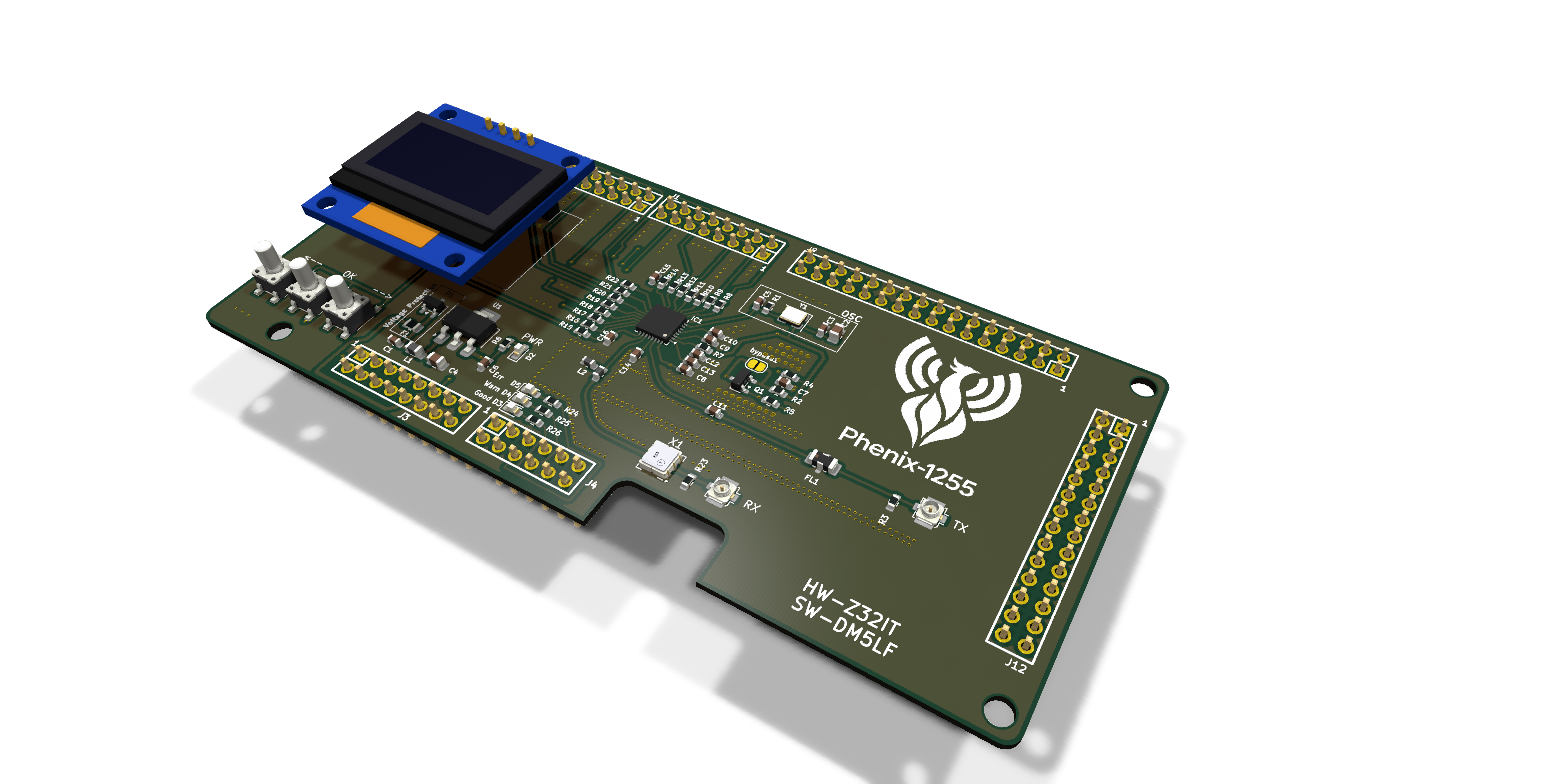
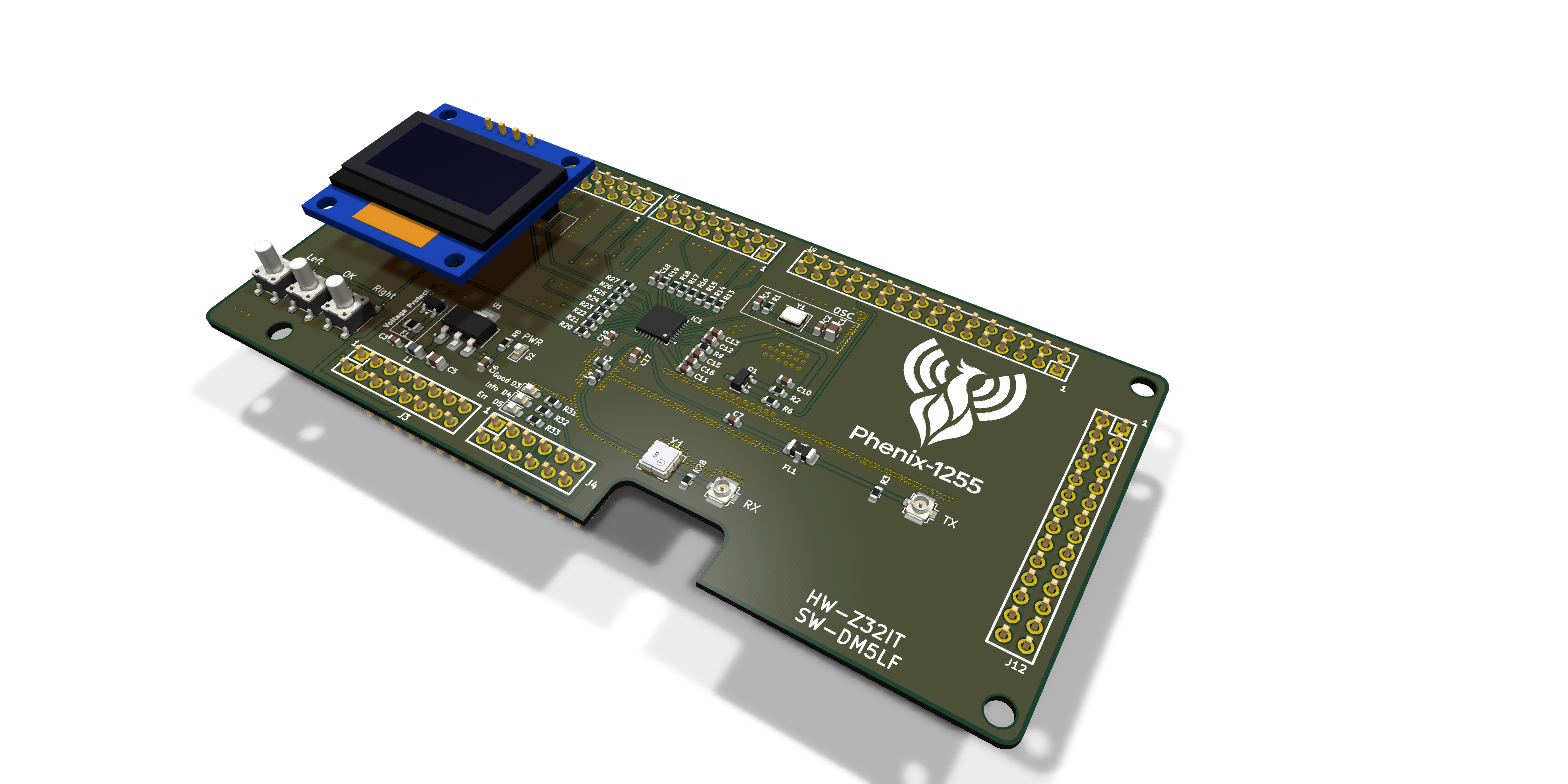
Documentation updated

diff --git a/documentation/hardware.md b/documentation/hardware.md
@@ -1,8 +1,8 @@
 # Hardware
 
-Description of the Phenix-1255 shield, revision **V2** and the **V2 Plus** variant. The full
-schematics are in [`FRDM-SX1255-V2.pdf`](../FRDM-SX1255/FRDM-SX1255-V2.pdf) and
-[`FRDM-SX1255+ V2.pdf`](../FRDM-SX1255+/FRDM-SX1255+%20V2.pdf); the firmware view of the same
+Description of the Phenix-1255 shield, revision **V2** and the **V2 Plus** variant (layout of
+25 Nov 2026). The full schematics are in [`FRDM-SX1255-V2.pdf`](../FRDM-SX1255/FRDM-SX1255-V2.pdf)
+and [`FRDM-SX1255+ V2.pdf`](../FRDM-SX1255+/FRDM-SX1255+%20V2.pdf); the firmware view of the same
 signals is in
 [`_doc/hardware.md`](https://github.com/w4tchd0g/phenix-1255-sw/blob/develop/_doc/hardware.md)
 of the software repository.
@@ -16,13 +16,13 @@ of the software repository.
 | Block | Parts | Description |
 |---|---|---|
 | Transceiver | IC1 (SX1255) | I/Q interface (I2S) and SPI to the MCX N947 |
-| Reference clock | Y1 (38.4 MHz TCXO) | Clipped sine, 0.5–1 ppm, footprint fits 3225 and 2520 packages |
-| RX path | J2, X1, L2, L3 | U.FL input → SAW band-pass (Tai-Saw TA0655A) → matching (L3 series, L2 shunt) → `RFI` |
-| TX path | C11, FL1, J1 | `RFO_P` → 100 pF → low-pass (Mini-Circuits LFCN-490+) → U.FL output; `RFO_N` is AC-coupled to GND (C14) |
-| TX driver amplifier (V2 Plus only) | U2, R29–R34, L4, C18–C20 | Qorvo TQP3M9036 between `RFO_P` and the low-pass filter, see [below](#tx-driver-amplifier-v2-plus) |
-| PA supply switch | Q1, R2, R4, R5, *bypass* | P-MOSFET switches the SX1255 PA supply (`VBAT3`) |
-| Power supply | F1, D1, L1, U1 | 5 V → PTC fuse → TVS → ferrite bead → 3.3 V LDO |
-| User interface | SW1–SW3, D2–D5, J5 | Push buttons, status LEDs, OLED socket |
+| Reference clock | Y1 (38.4 MHz TCXO), C4, R1 | Clipped sine, 0.5–1 ppm, footprint fits 3225 and 2520 packages |
+| RX path | JJ2, X1, L4, L3 | U.FL input → SAW band-pass (Tai-Saw TA0655A) → matching (L4 39 nH series, L3 82 nH shunt) → `RFI` |
+| TX path | C7, FL1, JJ1 | `RFO_P` → 100 pF → low-pass (Mini-Circuits LFCN-490+) → U.FL output; `RFO_N` is AC-coupled to GND (C17) |
+| TX driver amplifier (V2 Plus only) | U2, R4, R5, R7, R10–R12, L2, C8, C9, C14 | Qorvo TQP3M9036 between `RFO_P` and the low-pass filter, see [below](#tx-driver-amplifier-v2-plus) |
+| PA supply switch | Q1, R2, R6, C10 | P-MOSFET (DMP1045U) switches the SX1255 PA supply (`VBAT3`) |
+| Power supply | F1, D1, L1, U1, C1–C3, C5, C6 | 5 V → PTC fuse → TVS → ferrite bead → 3.3 V LDO |
+| User interface | SW1–SW3, D2–D5, J7 | Push buttons, status LEDs, OLED socket |
 
 ## Shield headers
 
@@ -30,8 +30,7 @@ The shield plugs onto the FRDM-MCXN947 with six headers (J1, J2, J3, J4, J9, J12
 pin numbers below are the shield's pin numbers (see the silkscreen). The MCU pins are taken from the
 firmware's devicetree overlay. Pins not listed are not connected or GND.
 
-> **Note:** On V2 the U.FL connectors are also called J1 (*TX*) and J2 (*RX*). In this document
-> "J1"/"J2" in the header tables mean the FRDM headers.
+The U.FL connectors are called JJ1 (*TX*) and JJ2 (*RX*), so "J1"/"J2" always mean the FRDM headers.
 
 ### J1 – SX1255 I/Q interface and control
 
@@ -57,46 +56,60 @@ firmware's devicetree overlay. Pins not listed are not connected or GND.
 | 15 | `SCL_oled` | P1_1 | LPI2C3 SCL |
 | 17 | `SDA_oled` | P1_0 | LPI2C3 SDA |
 
-All SX1255 signals have 33 Ω series resistors (R8–R22) close to the SX1255.
+The SX1255 signals have series resistors close to the SX1255:
 
-### J3 – Power, PA control and buttons
+| Value | Signals | Parts |
+|---|---|---|
+| 33 Ω | `RST`, `CK_OUT`, `I_OUT`, `MISO`, `DIO0`–`DIO3` | R13, R14, R18, R26, R23, R22, R21, R20 |
+| 330 Ω | `I_IN`, `NSS`, `MOSI`, `SCK` | R17, R24, R25, R27 |
+| 330 Ω to GND | SX1255 `CK_IN`, `Q_IN` (not used) | R15, R16 |
+
+### J3 – Power and buttons
 
 | Pin | Signal | MCU pin | Function |
 |---|---|---|---|
-| 1 | `BTN_LEFT` | P2_0 | Push button SW3 *←* |
-| 3 | `BTN_RIGHT` | P1_22 | Push button SW1 *→* |
+| 1 | `BTN_LEFT` | P2_0 | Push button SW3 *Left* |
+| 3 | `BTN_OK` | P1_22 | Push button SW2 *OK* |
 | 4 | `+3.3V` | | 3.3 V of the FRDM board for the OLED socket and the buttons |
 | 10 | `+5V0` | | Main supply of the shield |
-| 11 | `~PA_EN` | P2_4 | PA supply enable, active low |
-| 13 | `USB/LAN` | P2_7 | Not connected on V2 (the slide switch of V1.3 was removed) |
+| 12, 14 | GND | | |
 
 ### J4 – Button and status LEDs
 
 | Pin | Signal | Colour | MCU pin |
 |---|---|---|---|
-| 1 | `BTN_OK` – push button SW2 *OK* | | P4_12 / P0_21 |
-| 6 | D5 *Err* | red | P0_14 |
-| 8 | D4 *Warn* | yellow | P0_22 |
-| 10 | D3 *Good* | green | P0_15 |
+| 1 | `BTN_RIGHT` – push button SW1 *Right* | | P4_12 / P0_21 |
+| 6 | D3 *Good* | green | P0_14 |
+| 8 | D4 *Info* | yellow | P0_22 |
+| 10 | D5 *Err* | red | P0_15 |
 
-The LEDs are driven active high through 1.5 kΩ resistors (R24–R26). D2 *PWR* is on the shield's
-3.3 V rail.
+The LEDs are driven active high through 1.5 kΩ resistors (R31 *Good*, R32 *Info*, R33 *Err*). D2
+*PWR* is on the shield's 3.3 V rail (R8, 3.3 kΩ).
 
 Where two MCU pins are listed, the FRDM board routes the header pin to one of them via a jumper or
-resistor option. Check the FRDM-MCXN947 schematic for the default (e.g. J4 pin 10 can also be
-routed to P2_0, which is already used by `BTN_LEFT`).
+resistor option. Check the FRDM-MCXN947 schematic for the default (the firmware uses P4_12 for
+`BTN_RIGHT`; J4 pin 10 can also be routed to P2_0, which is already used by `BTN_LEFT`).
 
-### J9, J12
+### J9 – PA enable
 
-Only GND is used.
+| Pin | Signal | MCU pin | Function |
+|---|---|---|---|
+| 23 | `~PA_EN` | P1_23 | PA supply enable, active low (V2 Plus: also enables the TX driver amplifier) |
+
+The firmware reads a hardware ID from P1_19 (J9-5), P3_5 (J9-11) and P3_4 (J9-12) with internal
+pull-downs. These pins are not connected on this board, so the ID reads 0.
+
+### J12
+
+Only GND (pin 2) is used.
 
 ## Other connectors
 
 | Connector | Type | Use |
 |---|---|---|
-| J1 *TX* | U.FL | Transmitter output, 1 MΩ to GND (R3) |
-| J2 *RX* | U.FL | Receiver input, 1 MΩ to GND (R23) |
-| J5 *I2C OLED* | 1×4 socket, 2.54 mm | 1 GND · 2 +3.3V · 3 SCL · 4 SDA (33 Ω series resistors R27/R28) |
+| JJ1 *TX* | U.FL | Transmitter output, 1 MΩ to GND (R3) |
+| JJ2 *RX* | U.FL | Receiver input, 1 MΩ to GND (R28) |
+| J7 *I2C OLED* | 1×4 socket, 2.54 mm | 1 GND · 2 +3.3V · 3 SCL · 4 SDA (33 Ω series resistors R29/R30) |
 
 ## Board functions
 
@@ -105,25 +118,27 @@ Only GND is used.
 SW1–SW3 switch to the FRDM 3.3 V rail and have no external pull-downs. Enable the **internal
 pull-downs** on `BTN_LEFT`, `BTN_OK` and `BTN_RIGHT`; a pressed button reads as `1`.
 
-### PA supply and *bypass* jumper
+### PA supply
 
-The SX1255 PA supply (`VBAT3`) is fed from 3.3 V through R2 (1 Ω) and the P-MOSFET Q1 (BSS84).
-R4 pulls the gate up, so the PA is **off** until the firmware pulls `~PA_EN` low (through R5).
+The SX1255 PA supply (`VBAT3`) is fed from 3.3 V through R2 (1 Ω) and the P-MOSFET Q1
+(Diodes DMP1045U), with C10 (1 µF) at the source. The gate is driven from `~PA_EN` through R6
+(330 Ω); the PA is on while `~PA_EN` is low.
 
-The open solder jumper ***bypass*** bridges Q1. Closing it powers the PA permanently, independent
-of the firmware.
+The gate has **no pull-up resistor** on the shield. While P1_23 is not driven (reset, before the
+firmware configures it) the PA state is undefined, so the firmware should set `~PA_EN` high as
+early as possible. The *bypass* solder jumper of earlier V2 layouts has been removed.
 
 ### TX driver amplifier (V2 Plus)
 
 ```
-RFO_P ─ π-attenuator (R29 150 Ω / R30 36 Ω / R31 150 Ω) ─ C20 ─ U2 TQP3M9036 ─ C11 ─ FL1 LFCN-490+ ─ J1 TX
+RFO_P ─ π-attenuator (R12 150 Ω / R11 36 Ω / R10 150 Ω) ─ C14 ─ U2 TQP3M9036 ─ C7 ─ FL1 LFCN-490+ ─ JJ1 TX
                                                                   │
-                                                     +5V0 ─ L4 68 nH (bias feed)
+                                                     +5V0 ─ L2 68 nH (bias feed)
 ```
 
-- U2 is supplied from `+5V0` through L4 into its RF output (C18/C19 decoupling).
-- U2 pin 6 is driven from `~PA_EN` through R34/R33 with R32 to GND, so the amplifier follows the PA
-  enable signal.
+- U2 is supplied from `+5V0` through L2 into its RF output (C8/C9 decoupling).
+- U2 pin 6 is driven from `~PA_EN` through R4 (1 Ω) and R5 (33 kΩ) with R7 (10 kΩ) to GND, so the
+  amplifier follows the PA enable signal.
 
 ### Power supply
 
@@ -132,8 +147,28 @@ J3-10 (+5V0) ─ F1 500 mA PTC ─┬─ L1 ferrite bead ─ U1 MCP1703 (3.3 V) 
                               └─ D1 TVS (SP0502BAHT)
 ```
 
-The FRDM-MCXN947 supplies the 5 V. With a 48 V → 5 V USB-C PoE splitter the setup can be powered
-over Ethernet.
+C3 (1 µF) sits behind the fuse, C5 (22 µF) at the LDO input and C1 (22 µF), C2 (100 nF) and C6
+(1 µF) at its output. The FRDM-MCXN947 supplies the 5 V. With a 48 V → 5 V USB-C PoE splitter the
+setup can be powered over Ethernet.
+
+## Changes in the layout of 25 Nov 2026
+
+Compared with the V2 layout of 4 Nov 2026:
+
+| Change | Before | Now |
+|---|---|---|
+| Reference designators | | Re-annotated. U.FL connectors are now JJ1/JJ2, the OLED socket is J7 |
+| `~PA_EN` | J3-11 | J9-23 (P1_23) |
+| `BTN_OK` / `BTN_RIGHT` | J4-1 / J3-3 | J3-3 / J4-1 |
+| Status LEDs on J4-6 / -8 / -10 | *Err* / *Warn* / *Good* | *Good* / *Info* / *Err* |
+| LED D4 | *Warn* | *Info* |
+| `USB/LAN` (J3-13) | unused net on the header | removed |
+| PA switch Q1 | BSS84, gate pull-up R4 10 kΩ, *bypass* jumper | DMP1045U, no pull-up, no jumper |
+| Push buttons | C&K PTS647SK70SMTR2N LFS | E-Switch TL3305CF260QG (same footprint) |
+| 22 µF capacitors | CL31B226MPHNNNE | CL21A226KOQNNNE |
+
+The firmware on the `develop` branch of
+[phenix-1255-sw](https://github.com/w4tchd0g/phenix-1255-sw) already uses the new pin assignment.
 
 ## Board views
 

diff --git a/README.md b/README.md
@@ -58,19 +58,19 @@ power supply, user interface and RX path.
 | Variant | Folder | Difference |
 |---|---|---|
 | **V2** | [`FRDM-SX1255/`](FRDM-SX1255) | SX1255 TX output → low-pass filter → U.FL |
-| **V2 Plus** | [`FRDM-SX1255+/`](FRDM-SX1255+) | Additional **TX driver amplifier** (Qorvo TQP3M9036, U2) between the SX1255 and the low-pass filter, with a resistive π-attenuator (R29–R31) at its input. The amplifier runs from 5 V and is switched together with the PA via `~PA_EN`. |
+| **V2 Plus** | [`FRDM-SX1255+/`](FRDM-SX1255+) | Additional **TX driver amplifier** (Qorvo TQP3M9036, U2) between the SX1255 and the low-pass filter, with a resistive π-attenuator (R10–R12) at its input. The amplifier runs from 5 V and is switched together with the PA via `~PA_EN`. |
 
 ## Features
 
-- **Separate RX and TX paths** with U.FL connectors (*TX* J1, *RX* J2)
+- **Separate RX and TX paths** with U.FL connectors (*TX* JJ1, *RX* JJ2)
   - RX: SAW band-pass filter (Tai-Saw TA0655A, 430 MHz centre frequency, 2 MHz bandwidth) → LC matching → `RFI`
   - TX: `RFO_P` → low-pass filter (Mini-Circuits LFCN-490+) → U.FL; V2 Plus adds the TQP3M9036 driver amplifier
-- **Switchable PA supply** – P-MOSFET (BSS84) controlled by `~PA_EN`, with a *bypass* solder jumper
+- **Switchable PA supply** – P-MOSFET (DMP1045U) controlled by `~PA_EN`
 - **Power supply** – resettable 500 mA fuse, TVS diode array (SP0502BAHT), ferrite bead and 3.3 V LDO (MCP1703)
 - **User interface**
-  - Three push buttons: *←*, *OK*, *→*
+  - Three push buttons: *Left*, *OK*, *Right*
   - Socket for an I²C OLED display
-  - Status LEDs: *PWR*, *Err*, *Warn*, *Good*
+  - Status LEDs: *PWR*, *Good*, *Info*, *Err*
 
 ## Preview
 
@@ -91,9 +91,9 @@ power supply, user interface and RX path.
 | <img src="documentation/images/pcb-v2-plus-top.png" alt="V2 Plus – top side" width="420"> | <img src="documentation/images/pcb-v2-plus-bottom.png" alt="V2 Plus – bottom side" width="420"> |
 
 The images are rendered from the `.kicad_pcb` files with the KiCad 3D renderer and show the fully
-assembled board with a 0.96″ OLED module plugged into its socket, including the parts that are
-marked *do not populate* in the layout (FRDM headers, OLED socket, SAW filter). After changing the
-layout, run [`./scripts/render.sh`](scripts/render.sh) to update the images.
+assembled board with a 0.96″ OLED module plugged into its socket (J7), including the parts that are
+marked *do not populate* in the layout (FRDM headers, OLED socket and, on V2 Plus, the SAW filter).
+After changing the layout, run [`./scripts/render.sh`](scripts/render.sh) to update the images.
 
 ### 3D models
 
@@ -104,13 +104,13 @@ enclosure) and exported as STEP from KiCad. Most models come from the KiCad stan
 | Part | Footprint | 3D model | Source |
 |---|---|---|---|
 | FRDM headers J1, J2, J3, J4, J9, J12 | Samtec SSQ (FRDM template) | `PinHeader_2xNN_P2.54mm_Vertical` | KiCad library, mounted below the board |
-| U.FL connectors *TX* / *RX* | `U.FL_Molex_MCRF_73412-0110_Vertical` | `U.FL_Hirose_U.FL-R-SMT-1_Vertical`, rotated 90° | KiCad library (no model for the Molex footprint) |
-| Push buttons SW1–SW3 | `PTS647SK38SMTR2LFS` | `SW_SPST_PTS647Sx70` (7.0 mm actuator, as in the BOM) | KiCad library |
+| U.FL connectors JJ1 *TX* / JJ2 *RX* | `U.FL_Molex_MCRF_73412-0110_Vertical` | `U.FL_Hirose_U.FL-R-SMT-1_Vertical`, rotated 90° | KiCad library (no model for the Molex footprint) |
+| Push buttons SW1–SW3 | `PTS647SK38SMTR2LFS` | `SW_SPST_PTS647Sx70` (stand-in for the E-Switch TL3305 in the BOM) | KiCad library |
 | SAW filter X1 (TA0655A) | `Filter_SAW-6_3.8x3.8mm` | [`3dmodels/TA0655A.stp`](FRDM-SX1255/3dmodels/TA0655A.stp) | Project file |
 | TX amplifier U2 (V2 Plus) | `SON50P200X200X95-9N` | `VDFN-8-1EP_2x2mm_P0.5mm_EP0.9x1.7mm` | KiCad library |
-| OLED display (plugged into J5) | `PinSocket_1x04_P2.54mm_Vertical` | [`3dmodels/OLED_0.96in_128x64_I2C.stp`](FRDM-SX1255/3dmodels/OLED_0.96in_128x64_I2C.stp) – 0.96″ 128×64 SSD1306 I²C module, as a second model on the socket | Project file |
+| OLED display (plugged into J7) | `PinSocket_1x04_P2.54mm_Vertical` | [`3dmodels/OLED_0.96in_128x64_I2C.stp`](FRDM-SX1255/3dmodels/OLED_0.96in_128x64_I2C.stp) – 0.96″ 128×64 SSD1306 I²C module, as a second model on the socket | Project file |
 
-Mounting holes and the *bypass* solder jumper need no model.
+Mounting holes need no model.
 
 The shield is designed for the NXP FRDM-MCXN947 development board, see the
 [NXP FRDM-MCXN947 product page](https://www.nxp.com/design/design-center/development-boards-and-designs/FRDM-MCXN947)
@@ -120,7 +120,7 @@ for photos, documentation and the board pinout.
 
 | Document | Content |
 |---|---|
-| [Hardware](documentation/hardware.md) | Block overview, header pin assignment, PA supply and *bypass* jumper, power supply, V2 Plus amplifier |
+| [Hardware](documentation/hardware.md) | Block overview, header pin assignment, PA supply, power supply, V2 Plus amplifier, changes in the current layout |
 | [Manufacturing and assembly](documentation/manufacturing.md) | PCB specification, production files, assembly notes, first power-up |
 
 ## Host PC requirements
@@ -170,7 +170,7 @@ Phenix-1255-HW/
    (2 layers, **1.2 mm** board thickness). For assembly, provide the BOM and position files as well.
    Details: [Manufacturing and assembly](documentation/manufacturing.md).
 3. **Assemble** the shield and plug it onto the FRDM-MCXN947.
-4. **Connect antennas / RF cabling** to the U.FL connectors *TX* (J1) and *RX* (J2).
+4. **Connect antennas / RF cabling** to the U.FL connectors *TX* (JJ1) and *RX* (JJ2).
 5. **Install the software** from [phenix-1255-sw](https://github.com/w4tchd0g/phenix-1255-sw).
 
 ## Related projects

diff --git a/documentation/manufacturing.md b/documentation/manufacturing.md
@@ -1,7 +1,8 @@
 # Manufacturing and assembly
 
 Notes for ordering and assembling the Phenix-1255 shield, revision **V2** and the **V2 Plus**
-variant. The production files are in [`FRDM-SX1255/Gerber and BOM/`](../FRDM-SX1255/Gerber%20and%20BOM) (V2) and
+variant (layout of 25 Nov 2026). The production files are in
+[`FRDM-SX1255/Gerber and BOM/`](../FRDM-SX1255/Gerber%20and%20BOM) (V2) and
 [`FRDM-SX1255+/Gerber and BOM/`](../FRDM-SX1255+/Gerber%20and%20BOM) (V2 Plus).
 
 ## Production files
@@ -17,6 +18,16 @@ The V2 Plus files have the same structure and are named `FRDM-SX1255+ V2.kicad_p
 
 The Gerber ZIP also contains `User_Comments.gbr`. The manufacturer does not need it.
 
+**BOM notes:**
+
+- The **SAW filter X1** (Tai-Saw TA0655A) is excluded from the BOM in both variants (on V2 Plus it is
+  also marked *do not populate*). It is in the position files; order it separately or add it to
+  the BOM for the assembler.
+- The BOM lists **J9** (FRDM header, value `~`, no part number). Like the other FRDM headers it
+  is fitted by hand, so remove the line before sending the BOM to an assembly service. The
+  position files contain all FRDM headers (J1–J4, J9, J12) and the OLED socket J7 as `tht` parts;
+  these are not placed by the assembler either.
+
 ## PCB specification
 
 | Parameter | Value |
@@ -26,7 +37,8 @@ The Gerber ZIP also contains `User_Comments.gbr`. The manufacturer does not need
 | Board thickness | **1.2 mm** |
 | Copper | 35 µm (1 oz) outer layers |
 | Min. track width / clearance | 0.2 mm / 0.2 mm |
-| Vias | 0.6 mm pad / 0.3 mm drill |
+| Vias | 0.6 mm pad / 0.3 mm drill (signal and stitching), 0.9 mm pad / 0.6 mm drill |
+| Smallest drill | 0.3 mm (V2); **0.25 mm** for the three thermal vias in the U2 footprint (V2 Plus) |
 | Min. copper to board edge | 0.5 mm |
 | Mounting holes | 4 × M3 (3.2 mm) |
 
@@ -42,18 +54,21 @@ explicitly when ordering.
   rates are derived from it.
 - **TQP3M9036 (U2, V2 Plus only)** – 2 × 2 mm DFN with exposed pad. Reflow soldering is
   recommended; the exposed pad must be soldered to GND.
-- **U.FL connectors (J1 *TX*, J2 *RX*)** – Rated for a limited number of mating cycles. Use a short
-  U.FL to SMA pigtail instead of connecting and disconnecting the antenna cable directly.
-- **Push buttons (SW1–SW3)** – C&K PTS647 series, SMD.
-- **OLED socket (J5)** – 1×4 female header, 2.54 mm, for a 0.96″ SSD1306 I²C module.
+- **PA switch (Q1)** – Diodes DMP1045UQ-7, P-channel MOSFET in SOT-23. (The `MPN` column of the
+  BOM still shows the DigiKey number of the former BSS84; the manufacturer part and DigiKey part
+  number columns are correct.)
+- **U.FL connectors (JJ1 *TX*, JJ2 *RX*)** – Rated for a limited number of mating cycles. Use a
+  short U.FL to SMA pigtail instead of connecting and disconnecting the antenna cable directly.
+- **Push buttons (SW1–SW3)** – E-Switch TL3305CF260QG, SMD, on the C&K PTS647 footprint.
+- **OLED socket (J7)** – 1×4 female header, 2.54 mm, for a 0.96″ SSD1306 I²C module.
 - **FRDM headers** – Use stacking or socket headers that match the FRDM-MCXN947 (Samtec SSQ series
   in the design).
-- ***bypass* solder jumper** – Leave open for normal operation. Closing it powers the SX1255 PA
-  permanently, see [hardware.md](hardware.md#pa-supply-and-bypass-jumper).
 
 ## First power-up
 
 1. Check for shorts between `+5V0`, `+3V3` and GND before plugging the shield onto the FRDM board.
 2. Plug the shield onto the FRDM-MCXN947 and power it. The *PWR* LED (D2) must light up.
-3. Connect a 50 Ω load or antenna to *TX* (J1) before transmitting.
+3. Connect a 50 Ω load or antenna to *TX* (JJ1) before transmitting. Q1 has no gate pull-up, so the
+   PA may be powered before the firmware drives `~PA_EN`
+   (see [hardware.md](hardware.md#pa-supply)).
 4. Flash the firmware from [phenix-1255-sw](https://github.com/w4tchd0g/phenix-1255-sw).
